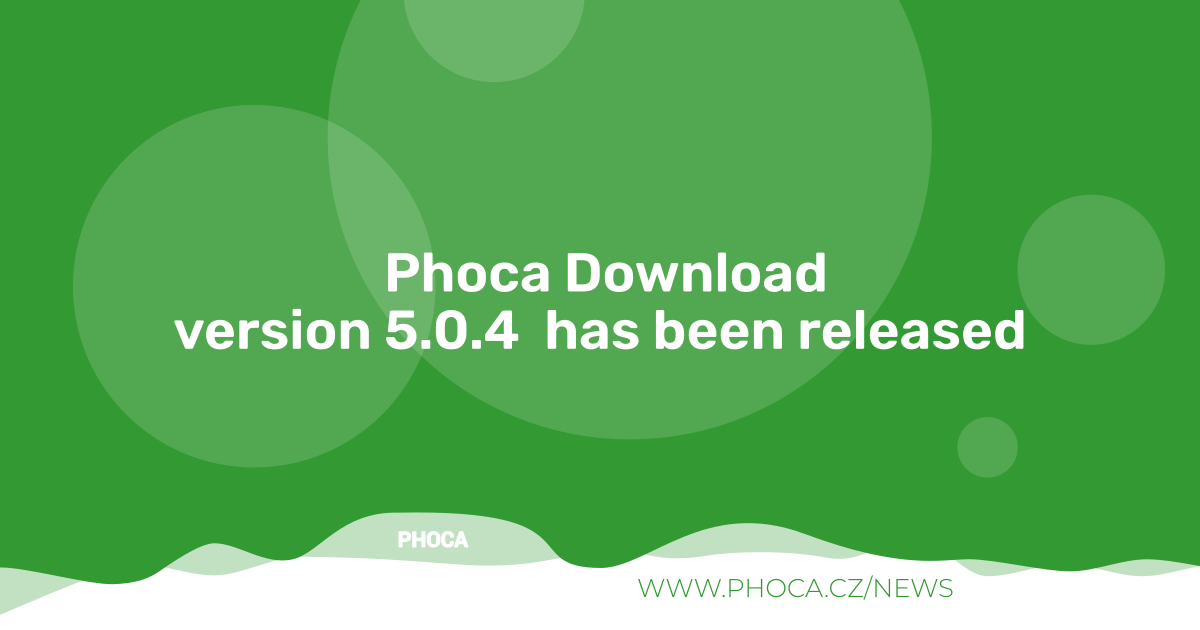
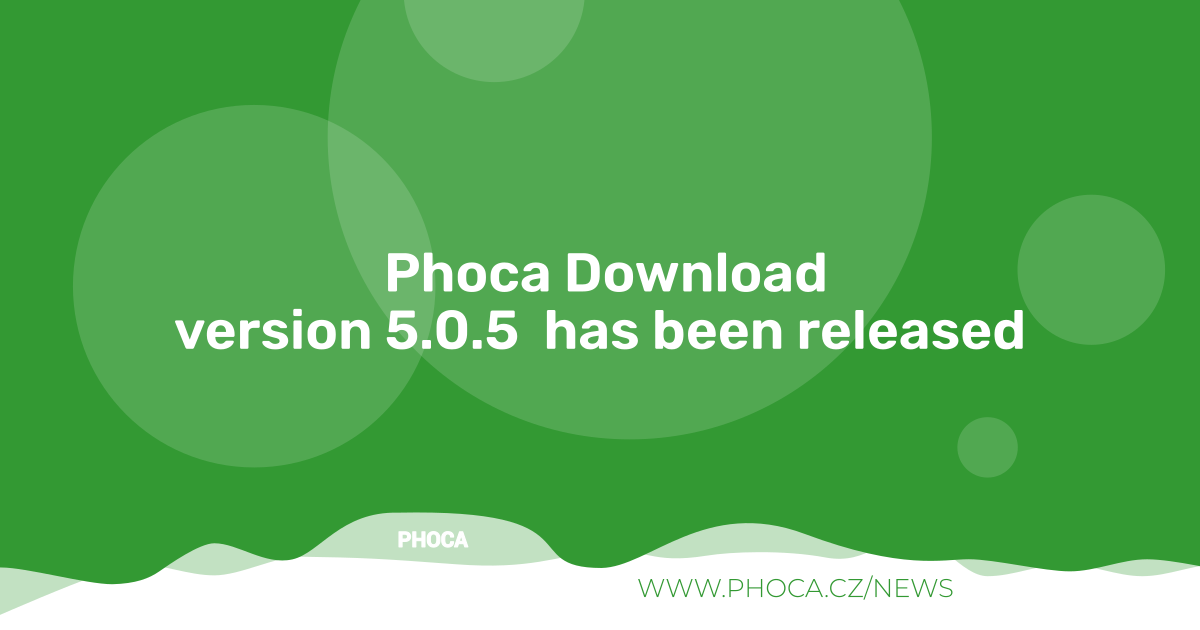
5.0.5

diff --git a/media/css/main/phocadownload.css b/media/css/main/phocadownload.css
@@ -902,13 +902,14 @@ margin-left: 5px;
     height: 40%;
 }
 #pdCategoryModal.image .modal-content {
-	height: 40%;
+	height: 70%;
 }
 
 #pdCategoryModal.document .modal-content {
 	height: 80%;
 }
 
+#pdCategoryModal .modal-body iframe html body,
 #pdCategoryModal.play-thin .modal-body iframe html body {
 	display: flex;
 	align-items: center;

diff --git a/site/views/category/tmpl/default_files.php b/site/views/category/tmpl/default_files.php
@@ -128,7 +128,7 @@ if (!empty($this->files)) {
 			// pdbuttonplay
 			$pdButtonPlay = '';
 
-			if (isset($v->filename_play) && $v->filename_play != '') {
+			if ($this->t['display_play'] == 1 && isset($v->filename_play) && $v->filename_play != '') {
 				$fileExt 	= PhocaDownloadFile::getExtension($v->filename_play);
 				$canPlay	= PhocaDownloadFile::canPlay($v->filename_play);
 
@@ -145,7 +145,6 @@ if (!empty($this->files)) {
 							$buttonPlOptions = $this->t['buttonpl']->optionsmp3;
 							$dataType="play-thin";
 						}
-
 
 						$pdButtonPlay = '<a class="btn btn-danger"  href="'.$playLink.'" onclick="'. $buttonPlOptions.'" >'. Text::_('COM_PHOCADOWNLOAD_PLAY').'</a>';
 					} else {
@@ -173,7 +172,7 @@ if (!empty($this->files)) {
 
 			// pdbuttonpreview
 			$pdButtonPreview = '';
-			if (isset($v->filename_preview) && $v->filename_preview != '') {
+			if ($this->t['display_preview'] == 1 && isset($v->filename_preview) && $v->filename_preview != '') {
 				$fileExt = PhocaDownloadFile::getExtension($v->filename_preview);
 				if ($fileExt == 'pdf' || $fileExt == 'jpeg' || $fileExt == 'jpg' || $fileExt == 'png' || $fileExt == 'gif') {
 
@@ -204,7 +203,6 @@ if (!empty($this->files)) {
 							//$pdButtonPreview .= '<a class="btn btn-warning pd-bs-modal-button" href="'.$previewLink.'" rel="'. $this->t['buttonpr']->optionsimg.'" >'. JText::_('COM_PHOCADOWNLOAD_PREVIEW').'</a>';
 
 							//$pdButtonPreview = '<a class="btn btn-warning pd-bs-modal-button" data-toggle="modal" data-target="#phModalPreview" data-href="'.$previewLink.'" '. $this->t['buttonpr']->optionsimgB.' >'. Text::_('COM_PHOCADOWNLOAD_PREVIEW').'</a>';
-
 							$pdButtonPreview = '<a class="btn btn-warning pd-bs-modal-button" data-type="'.$dataType.'" data-title="'. Text::_('COM_PHOCADOWNLOAD_PREVIEW').'" href="'.$previewLink.'">'. Text::_('COM_PHOCADOWNLOAD_PREVIEW').'</a>';
 
 						}

diff --git a/site/views/play/tmpl/default.php b/site/views/play/tmpl/default.php
@@ -23,7 +23,7 @@ if ($rightDisplay == 1) {
 	if ($this->t['html5_play'] == 1 && $this->t['filetype'] != 'flv') {
 
         // style because of iframe
-        echo '<div style="display: flex;align-items: center;justify-content: center;"class="ph-media-iframe-box">';
+        echo '<div style="display: flex;align-items: center;justify-content: center;" class="ph-media-iframe-box">';
 		if ($this->t['filetype'] == 'mp3') {
 			echo '<audio width="'.$this->t['playerwidth'].'" height="'.$this->t['playerheight'].'" style="margin-top: 10px;" controls>';
 			echo '<source src="'.$this->t['playfilewithpath'].'" type="audio/mpeg">';

diff --git a/README.MD b/README.MD
@@ -100,7 +100,7 @@ Phoca Download is download manager for Joomla! CMS. It includes component, modul
 
 ## Version (Joomla! 5.x)
 
-5.0.4
+5.0.5
 
 
 
